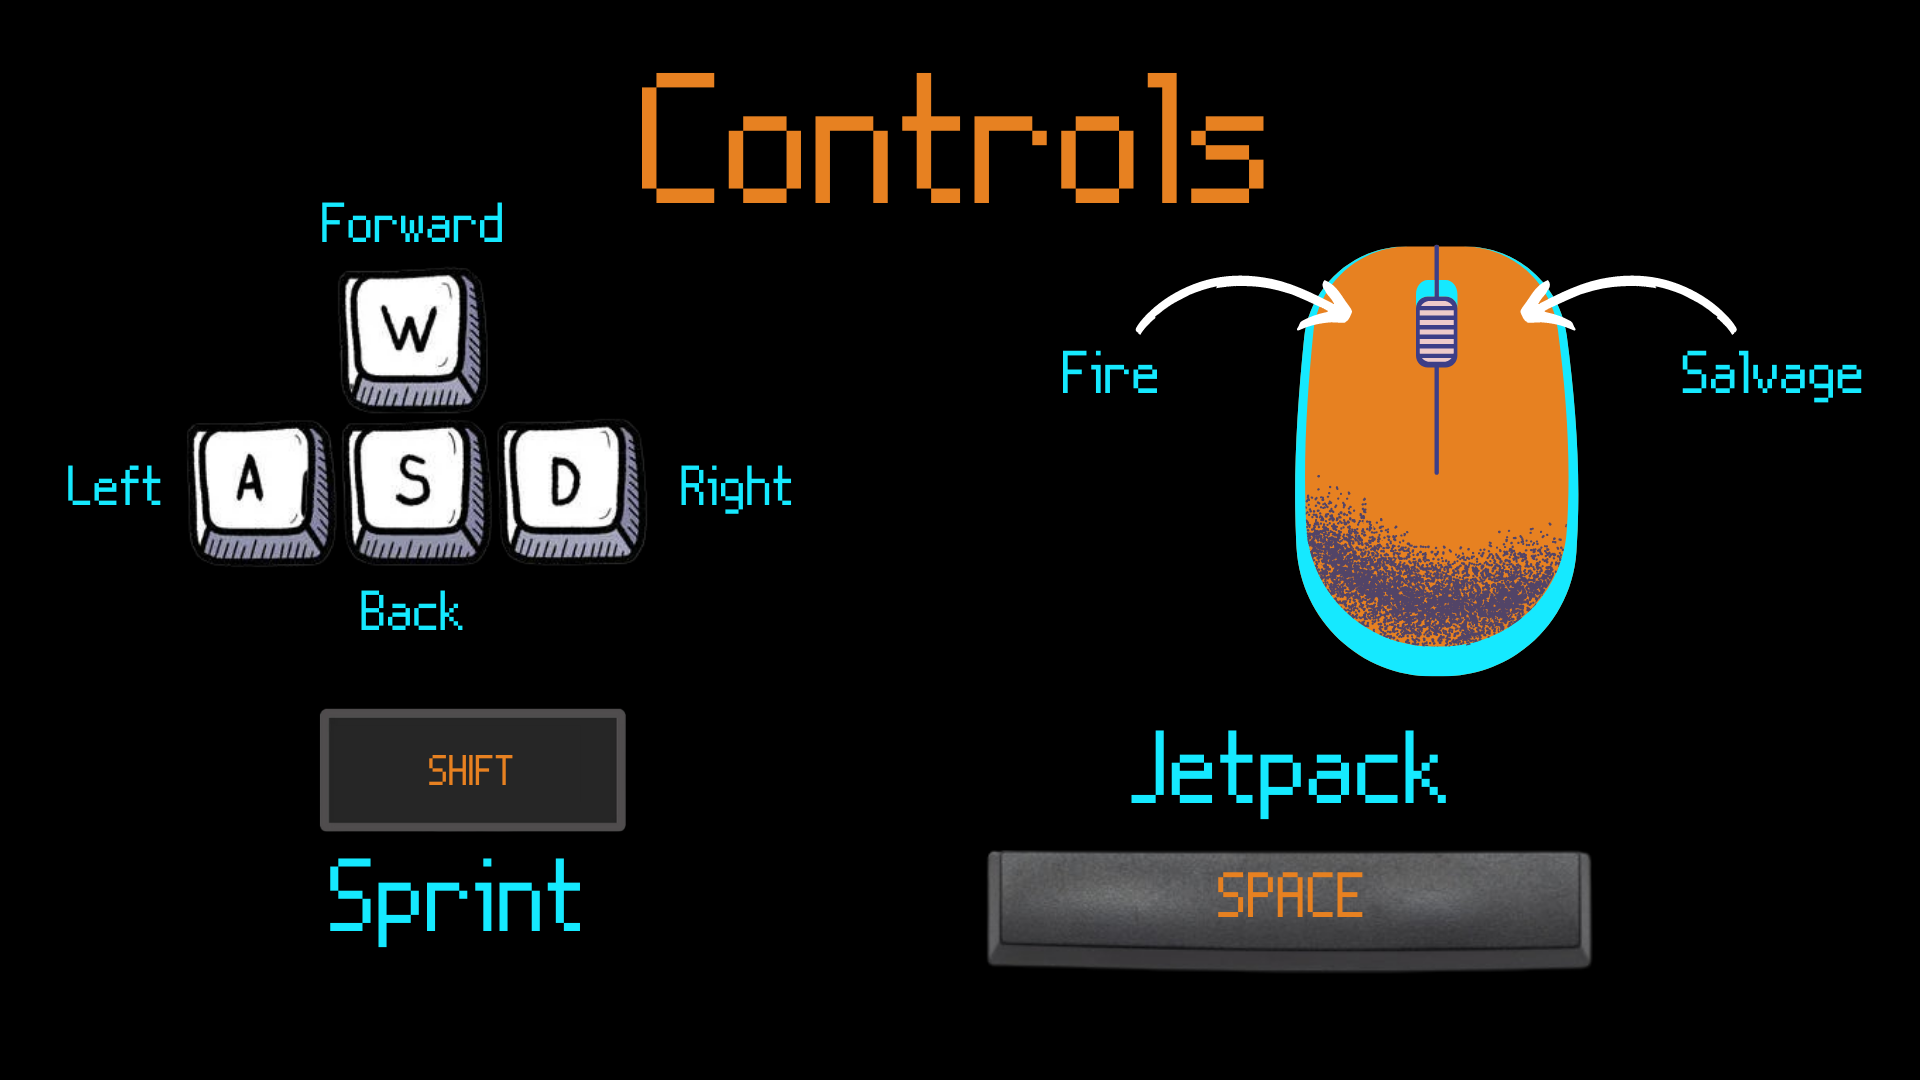
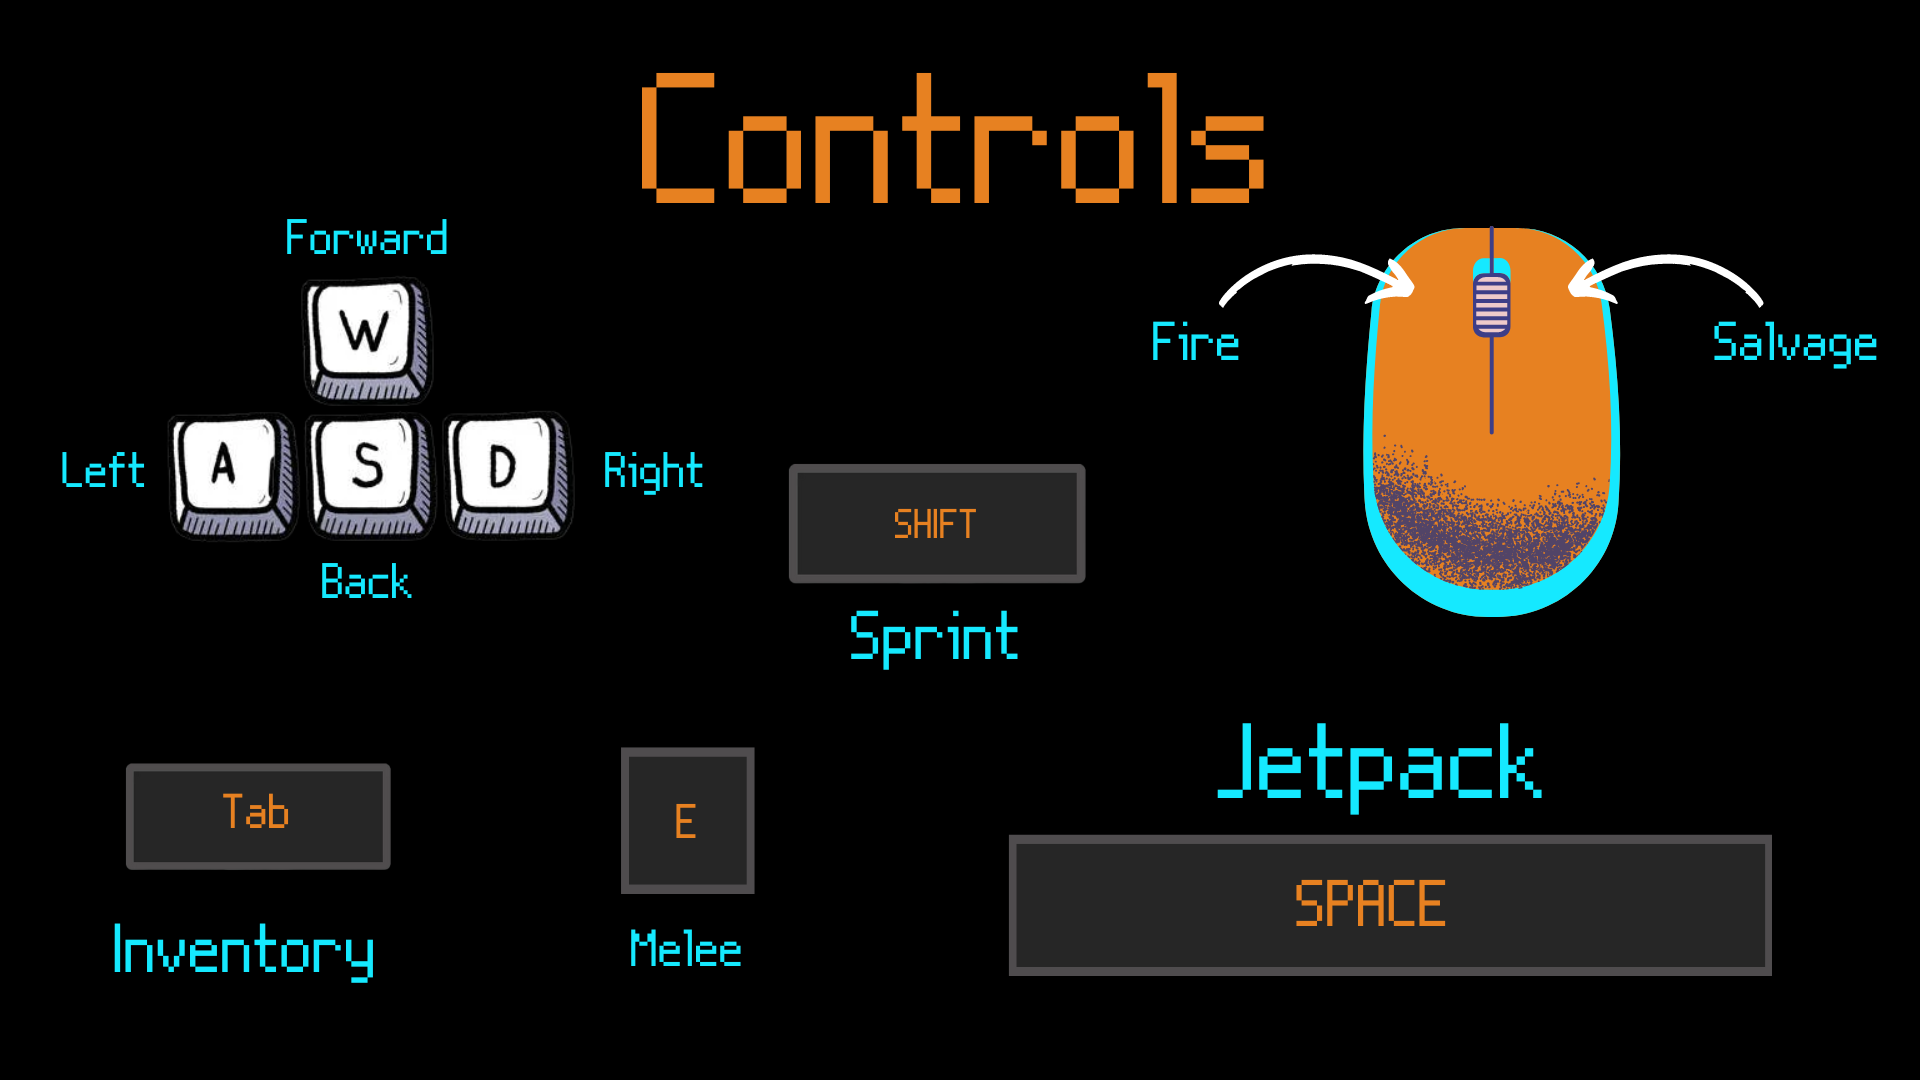
Updated controls splashscreen

diff --git a/ApocalypseScrapper/Assets/Scripts/levelAudioManager.cs b/ApocalypseScrapper/Assets/Scripts/levelAudioManager.cs
@@ -168,10 +168,13 @@ public class levelAudioManager : MonoBehaviour
         musicAudioSource.Pause();
         whiteNoiseAudioSource.Pause();
 
-        if(elevatorAudioSource.isPlaying)
+        if(elevatorAudioSource != null)
         {
-            elevatorWasPlaying = true;
-            elevatorAudioSource.Pause();
+            if(elevatorAudioSource.isPlaying)
+            {
+                elevatorWasPlaying = true;
+                elevatorAudioSource.Pause();
+            }
         }
     }
 
